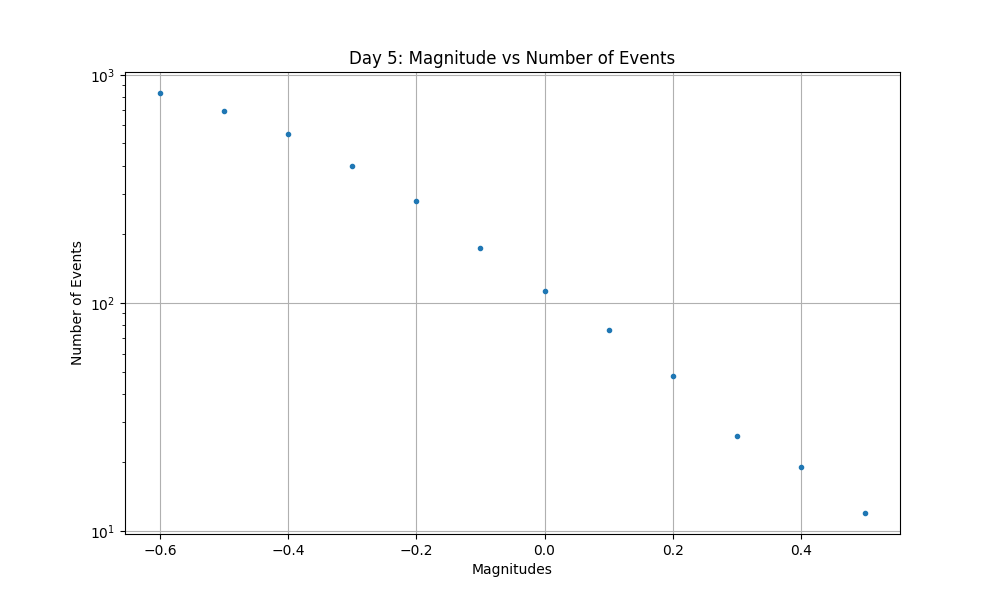
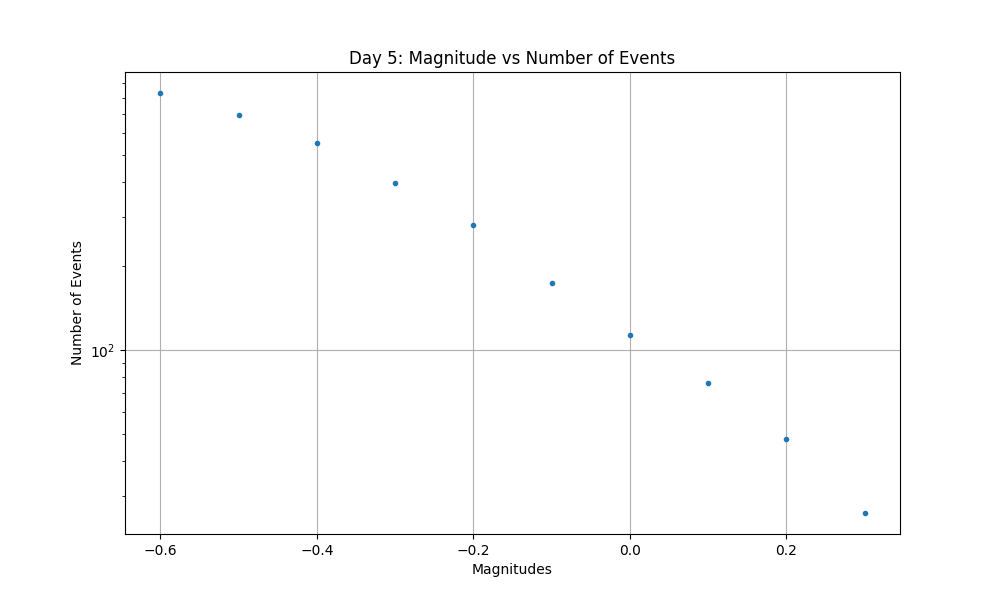
Finished the code

diff --git a/examples/seismology.py b/examples/seismology.py
@@ -50,7 +50,7 @@ filtered_times = [filtered_times_0, filtered_times_1, filtered_times_2, filtered
 # List of filtered magnitudes lists
 filtered_magnitudes = [filtered_magnitudes_0, filtered_magnitudes_1, filtered_magnitudes_2, filtered_magnitudes_3, filtered_magnitudes_4]
 
-dif_mang = np.arange(-0.6, 0.6, 0.1)
+dif_mang = np.arange(-0.6, 0.4, 0.1)
 values_times = []
 values_magnitudes = []
 for m, (vt, vm) in enumerate(zip(filtered_times, filtered_magnitudes)):
@@ -67,7 +67,7 @@ for i, (times, magnitudes) in enumerate(zip(values_times, values_magnitudes)):
     if i % len(dif_mang) == 0:
         N.append([])
     N[-1].append(count_times)
-    
+print(N)
 for i in range(len(N)):
     plt.figure(figsize=(10, 6))
     plt.plot(dif_mang, N[i], '.') # Plot magnitude against time
@@ -86,6 +86,42 @@ for i in range(len(N)):
     plt.ylabel('Number of Events') # Label the y-axis
     plt.grid(True) # Add a grid for better readability
     plt.savefig (f'figures/Logscale_MvsN_days{i}.png')
-
+    
 log_N = np.log10(N)
-coeffs, residuals, r2 = multi_regress(dif_mang, log_N)
+
+# print (log_N)
+# print (N)
+
+coeficients = []
+residuals = []
+r2 = []
+
+for i in range(len(log_N)):
+    coeffs, residuals, r2 = multi_regress(log_N[i], (-dif_mang))
+    coeficients.append(coeffs)
+
+
+
+#print (coeficients[0][1])
+#print (dif_mang)
+#print (dif_mang[0])
+
+
+prediction = []
+for i in range(len(log_N)):
+    a = coeficients[i][0]
+    b = coeficients[i][1] 
+    model =  10 ** (a - b * dif_mang)
+    prediction.append(model)
+
+    
+for i in range(len(N)):
+    plt.figure(figsize=(10, 6))
+    plt.semilogy(dif_mang, prediction[i], 'r-') # Plot magnitude against time
+    plt.semilogy(dif_mang, N[i], '.') # Plot magnitude against time
+    plt.title(f'Day {i+1}: Magnitude vs Number of Events') # Set the title for each plot
+    plt.xlabel('Magnitudes') # Label the x-axis
+    plt.ylabel('Number of Events') # Label the y-axis
+    plt.grid(True) # Add a grid for better readability
+    plt.savefig (f'figures/Prediction_MvsN_days{i}.png')
+    

diff --git a/src/goph420_lab03/regression.py b/src/goph420_lab03/regression.py
@@ -20,13 +20,21 @@ def multi_regress(y, Z):
 # """
 
 # Convert the input data to numpy arrays
-    n,m = Z.shape
-    y = np.array([])
-    Z = np.array([])
-    Z = np.column_stack((np.ones(n), Z[:, 1]))
-        
-
-    coeffs = np.linalg.lstsq(Z, y)[0] # Perform the regression
+    y = np.array(y)
+    Z = np.array(Z)
+    
+    # Create a column of ones with the same number of rows as Z
+    ones_column = np.ones((Z.shape[0], 1))
+    
+    # Concatenate the column of ones with Z to form the new Z matrix
+    Z = np.concatenate((ones_column, Z[:, np.newaxis]), axis=1) 
+    
+    Z_transpose = np.transpose(Z) # Transpose the matrix Z
+    ZTZ = np.dot(Z_transpose, Z) # Compute the product of Z_transpose and Z
+    ZTZ_inv = np.linalg.inv(ZTZ) # Compute the inverse of ZTZ
+    ZTY = np.dot(Z_transpose, y) # Compute
+    coeffs = np.dot(ZTZ_inv, ZTY) # Compute the coefficients
+    # coeffs = np.linalg.lstsq(Z, y)[0] # Perform the regression
     residuals = y - np.dot(Z, coeffs) # Compute the residuals
     ybar = np.mean(y) # Compute the mean of y
     sstot = np.sum((y - ybar) ** 2) # Compute the total sum of squares

diff --git a/tests/test_multi_regress.py b/tests/test_multi_regress.py
@@ -3,13 +3,21 @@ import numpy as np
 import matplotlib.pyplot as plt
 from goph420_lab03.regression import multi_regress
 
-class TestMultiRegression(unittest.TestCase):
+class TestMultiRegression1(unittest.TestCase):
     def setUp(self):
-        self.y = range(0,20, 2)
-        self.z = [1, 1, 1, 1, 1, 1, 1, 1, 1, 1], [1, 4, 2, 6, 8, 3, 8, 9, 10, 14]
+        self.z = np.array([0, 2.3, 4.9, 9.1, 13.7, 18.3, 22.9, 27.2])
+        self.y = np.array([22.8, 22.8, 22.8, 20.6, 13.9, 11.7, 11.1, 11.1])
         
-        regression = multi_regress(self.y, self.z)
+    def test_multi_regress(self):
+        expected_output_coeffs = np.array([23.7155, -0.5378])
+        expected_output_r2 = 0.90087
         
+        actual_output_coeff = (multi_regress(self.y, self.z)[0])
+        actual_output_r2 = round(multi_regress(self.y, self.z)[2], 5)
+        
+        np.testing.assert_almost_equal(expected_output_coeffs, actual_output_coeff, 4)
+        np.testing.assert_almost_equal(expected_output_r2, actual_output_r2)
+
+
 if __name__ == '__main__':
     unittest.main()
-        
